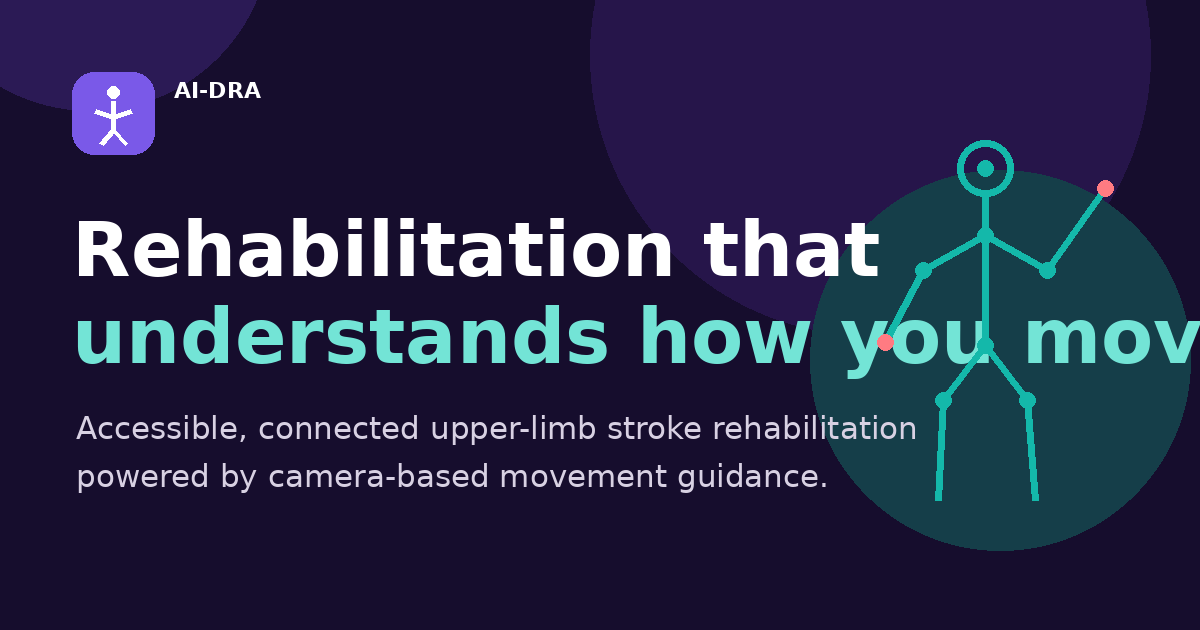
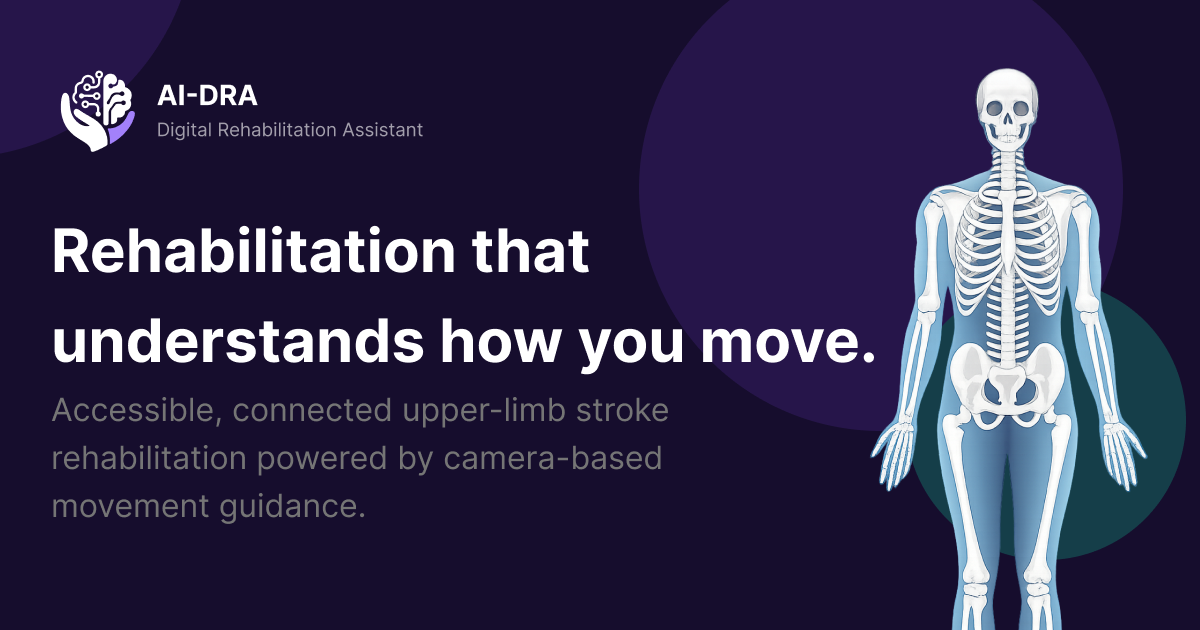
Refine authentication and invitation flows

diff --git a/frontend/features/carer/actions/carer-invitation-actions.ts b/frontend/features/carer/actions/carer-invitation-actions.ts
@@ -1,6 +1,7 @@
 "use server";
 
 import { revalidatePath } from "next/cache";
+import { headers } from "next/headers";
 
 import { createClient } from "@/lib/supabase/server";
 import {
@@ -93,7 +94,7 @@ export async function createCarerInvitationAction(
     };
   }
 
-  const inviteUrl = buildInvitationUrl(
+  const inviteUrl = await buildInvitationUrl(
     invitation.invitation_token,
   );
 
@@ -224,7 +225,7 @@ export async function resendCarerInvitationAction(
     };
   }
 
-  const inviteUrl = buildInvitationUrl(
+  const inviteUrl = await buildInvitationUrl(
     invitation.token,
   );
 
@@ -356,12 +357,34 @@ export async function cancelCarerInvitationAction(
   };
 }
 
-function buildInvitationUrl(token: string) {
-  const siteUrl =
-    process.env.NEXT_PUBLIC_SITE_URL ||
-    "http://localhost:3000";
+async function getSiteUrl() {
+  const configuredUrl =
+    process.env.NEXT_PUBLIC_SITE_URL?.trim();
 
-  return `${siteUrl.replace(/\/$/, "")}/invitations/carer/accept?token=${encodeURIComponent(
+  if (configuredUrl) {
+    return configuredUrl.replace(/\/$/, "");
+  }
+
+  const headerStore = await headers();
+  const host =
+    headerStore.get("x-forwarded-host") ??
+    headerStore.get("host");
+
+  const protocol =
+    headerStore.get("x-forwarded-proto") ??
+    "https";
+
+  if (host) {
+    return `${protocol}://${host}`;
+  }
+
+  return "http://localhost:3000";
+}
+
+async function buildInvitationUrl(token: string) {
+  const siteUrl = await getSiteUrl();
+
+  return `${siteUrl}/invitations/carer/accept?token=${encodeURIComponent(
     token,
   )}`;
 }

diff --git a/frontend/features/invitations/actions/carer-invitation-accept-actions.ts b/frontend/features/invitations/actions/carer-invitation-accept-actions.ts
@@ -1,6 +1,32 @@
 "use server";
 
+import { headers } from "next/headers";
+
 import { createClient } from "@/lib/supabase/server";
+
+async function getSiteUrl() {
+  const configuredUrl =
+    process.env.NEXT_PUBLIC_SITE_URL?.trim();
+
+  if (configuredUrl) {
+    return configuredUrl.replace(/\/$/, "");
+  }
+
+  const headerStore = await headers();
+  const host =
+    headerStore.get("x-forwarded-host") ??
+    headerStore.get("host");
+
+  const protocol =
+    headerStore.get("x-forwarded-proto") ??
+    "https";
+
+  if (host) {
+    return `${protocol}://${host}`;
+  }
+
+  return "http://localhost:3000";
+}
 
 export type InvitationSuccessState = {
   invitationId: string;
@@ -128,9 +154,7 @@ export async function setPasswordForInvitedSurvivorAction(
 ): Promise<SetInvitationPasswordResult> {
   const supabase = await createClient();
 
-  const siteUrl =
-    process.env.NEXT_PUBLIC_SITE_URL ||
-    "http://localhost:3000";
+  const siteUrl = await getSiteUrl();
 
   const { data, error } = await supabase.auth.signUp({
     email: input.email,

diff --git a/frontend/features/auth/components/check-email-card.tsx b/frontend/features/auth/components/check-email-card.tsx
@@ -11,6 +11,17 @@ import {
 
 import { createClient } from "@/lib/supabase/client";
 
+function getAppOrigin() {
+  const configuredUrl =
+    process.env.NEXT_PUBLIC_SITE_URL?.trim();
+
+  if (configuredUrl) {
+    return configuredUrl.replace(/\/$/, "");
+  }
+
+  return window.location.origin;
+}
+
 type CheckEmailCardProps = {
   email: string;
   loginHref?: string;
@@ -57,7 +68,7 @@ export function CheckEmailCard({
         email,
         options: {
           emailRedirectTo:
-            `${window.location.origin}${loginHref}`,
+            `${getAppOrigin()}${loginHref}`,
         },
       });
 

diff --git a/frontend/features/auth/components/forgot-password-form.tsx b/frontend/features/auth/components/forgot-password-form.tsx
@@ -11,6 +11,17 @@ import { Button } from "@/components/ui/button";
 import { Input } from "@/components/ui/input";
 import { createClient } from "@/lib/supabase/client";
 
+function getAppOrigin() {
+  const configuredUrl =
+    process.env.NEXT_PUBLIC_SITE_URL?.trim();
+
+  if (configuredUrl) {
+    return configuredUrl.replace(/\/$/, "");
+  }
+
+  return window.location.origin;
+}
+
 type ForgotPasswordFormProps = {
   loginHref?: string;
   registerHref?: string | null;
@@ -60,7 +71,7 @@ export function ForgotPasswordForm({
         createClient();
 
       const redirectTo =
-        `${window.location.origin}/auth/callback?next=/auth/reset-password`;
+        `${getAppOrigin()}/auth/callback?next=/auth/reset-password`;
 
       const { error } =
         await supabase.auth.resetPasswordForEmail(

diff --git a/frontend/features/auth/components/register-form.tsx b/frontend/features/auth/components/register-form.tsx
@@ -8,6 +8,17 @@ import { Button } from "@/components/ui/button";
 import { Input } from "@/components/ui/input";
 import { createClient } from "@/lib/supabase/client";
 
+function getAppOrigin() {
+  const configuredUrl =
+    process.env.NEXT_PUBLIC_SITE_URL?.trim();
+
+  if (configuredUrl) {
+    return configuredUrl.replace(/\/$/, "");
+  }
+
+  return window.location.origin;
+}
+
 type RegistrationRole =
   | "SURVIVOR"
   | "CARER";
@@ -112,7 +123,7 @@ export function RegisterForm({
             role: accountRole,
           },
           emailRedirectTo:
-            `${window.location.origin}${loginHref}`,
+            `${getAppOrigin()}${loginHref}`,
         },
       });
 

diff --git a/frontend/features/auth/components/role-aware-login-form.tsx b/frontend/features/auth/components/role-aware-login-form.tsx
@@ -153,10 +153,10 @@ export function RoleAwareLoginForm({
         return;
       }
 
-      router.replace(
-        resolution.destination
-      );
       router.refresh();
+
+      window.location.href =
+        resolution.destination;
     } catch (error) {
       console.error(
         "Role-aware login failed:",